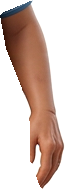
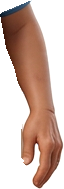
Puppets: clean arm cut (no grey fill, no leftover slivers), gentler arm range for traced arms
Claude-Session: https://claude.ai/code/session_01UFWoJhyahJFotHxmxZwApH

diff --git a/engine/assets/skit.html b/engine/assets/skit.html
@@ -277,7 +277,7 @@ const PUP_H={golu:420,bunty:420,pinky:440,mummy:450,papa:470,dadi:430,aunty:455,
 function drawPuppet(id,Pa,Pb,p,t,talk,lv,act){
  const P=PUPPETS[id], m=P.meta, I=P.img, k=(PUP_H[id]||440)/m.h, f=v=>(+v).toFixed(2), lvs=act.lvs||0;
  const A=PUP_ARMS[Pa]||PUP_ARMS.idle, B=PUP_ARMS[Pb]||PUP_ARMS.idle, X=POSES[Pb]||POSES.idle;
- let aL=lerp(A[0],B[0],p), aR=lerp(A[1],B[1],p); const ar=m.armRange||1;
+ let aL=lerp(A[0],B[0],p), aR=lerp(A[1],B[1],p); const ar=m.armRange||(m.armsFront?.6:1);
  const dance=Pb==='dance'&&p>.5, wig=Math.sin(t*9);
  if(dance){aL+=wig*22;aR+=wig*22}
  if(talk&&Pb!=='shock'){const a=.6+lvs, calm=['idle','sly','hold','sad','think'].includes(Pb);

diff --git a/engine/scripts/make_puppet.py b/engine/scripts/make_puppet.py
@@ -75,7 +75,7 @@ def cutout(path, floor_y=None):
     return np.dstack([rgb, al * 255]).astype(np.uint8)
 
 
-def lab(rgb):
+def to_lab(rgb):
     import cv2
     return cv2.cvtColor(np.clip(rgb, 0, 255).astype(np.uint8), cv2.COLOR_RGB2LAB).astype(float)
 
@@ -85,7 +85,7 @@ def auto_arms(c, R):
     closed vertically so the whole forearm comes out in one piece."""
     rgb, al = c[..., :3], c[..., 3]
     H, W = al.shape
-    L = lab(rgb)
+    L = to_lab(rgb)
     mx, my, mrx, mry = R["mouth"]
     ref = np.median(L[int(my) - 2:int(my) + 3, int(mx - mrx - 10):int(mx - mrx - 4)].reshape(-1, 3), axis=0)
     d = np.sqrt(((L[..., 0] - ref[0]) * .35) ** 2 + (L[..., 1] - ref[1]) ** 2 + (L[..., 2] - ref[2]) ** 2)
@@ -114,7 +114,8 @@ def auto_arms(c, R):
 
 
 def fill_behind(c, m, side):
-    """remove an arm from the body: inpaint cloth where the torso continues behind it, clear the rest"""
+    """remove an arm from the body: rebuild the cloth where the torso continues behind it, clear the rest,
+    and sweep away any leftover slivers of the old arm"""
     import cv2
     rgb, al = c[..., :3].copy(), c[..., 3].copy()
     H, W = al.shape
@@ -132,16 +133,33 @@ def fill_behind(c, m, side):
             else:
                 keep[y, x0:int(mid) + 1] = True
     keep &= m
-    hole = (m.astype(np.uint8) * 255)
-    src = rgb.astype(np.uint8).copy()
-    src[m] = 0
-    filled = cv2.inpaint(src, hole, 7, cv2.INPAINT_TELEA)
+    keep = ndimage.binary_opening(keep, iterations=2)
+    # colour source = body pixels only: transparent pixels get the nearest body colour first,
+    # so the inpaint never pulls in black from the empty background
+    solid = (al > 200) & ~m
+    idx = ndimage.distance_transform_edt(~solid, return_distances=False, return_indices=True)
+    src = rgb[idx[0], idx[1]].astype(np.uint8)
+    hole = (m | ~solid).astype(np.uint8) * 255
+    hole[ndimage.distance_transform_edt(~m) > 6] = 0                 # only rebuild near the arm
+    filled = cv2.inpaint(src, hole, 9, cv2.INPAINT_TELEA)
     c2 = c.copy()
     c2[..., :3] = np.where(keep[..., None], filled, c[..., :3])
-    a = al.copy(); a[m & ~keep] = 0
+    a = al.copy()
+    a[m & ~keep] = 0
+    # leftovers: thin slivers / small islands of the old arm near where it was
+    near = ndimage.binary_dilation(m, iterations=10)
+    body = a > 40
+    opened = ndimage.binary_opening(body, iterations=3)
+    a[near & body & ~opened] = 0
+    lab_, n = ndimage.label(a > 40)
+    if n > 1:
+        sizes = ndimage.sum(np.ones_like(a), lab_, range(1, n + 1))
+        big = np.argmax(sizes) + 1
+        for k in range(1, n + 1):
+            if k != big and sizes[k - 1] < 2500:
+                a[lab_ == k] = 0
     c2[..., 3] = a
     return c2
-
 
 def save(arr, path):
     Image.fromarray(arr.astype(np.uint8), "RGBA").save(path, optimize=True)
@@ -178,7 +196,12 @@ def main():
             pm = Image.new("L", (W, H), 0)
             ImageDraw.Draw(pm).polygon([tuple(q) for q in R["arm" + side + "_poly"]], fill=255)
             m = (np.asarray(pm) > 0) & (al > 20)
-            m = ndimage.binary_dilation(m, iterations=3) & (al > 20)
+            L_ = to_lab(rgb)
+            ref = np.median(L_[m & (al > 200)].reshape(-1, 3), axis=0)
+            dd = np.sqrt(((L_[..., 0] - ref[0]) * .3) ** 2 + (L_[..., 1] - ref[1]) ** 2 + (L_[..., 2] - ref[2]) ** 2)
+            ring = ndimage.binary_dilation(m, iterations=9) & ~m & (al > 20) & (dd < 14)
+            grow = ndimage.binary_propagation(m, mask=m | ring)
+            m = ndimage.binary_dilation(grow, iterations=2) & (al > 20)
             poly_masks[side] = m
     arm_sets = auto_arms(c, R).items() if R.get("arms") == "auto" else poly_masks.items()
     if arm_sets:
